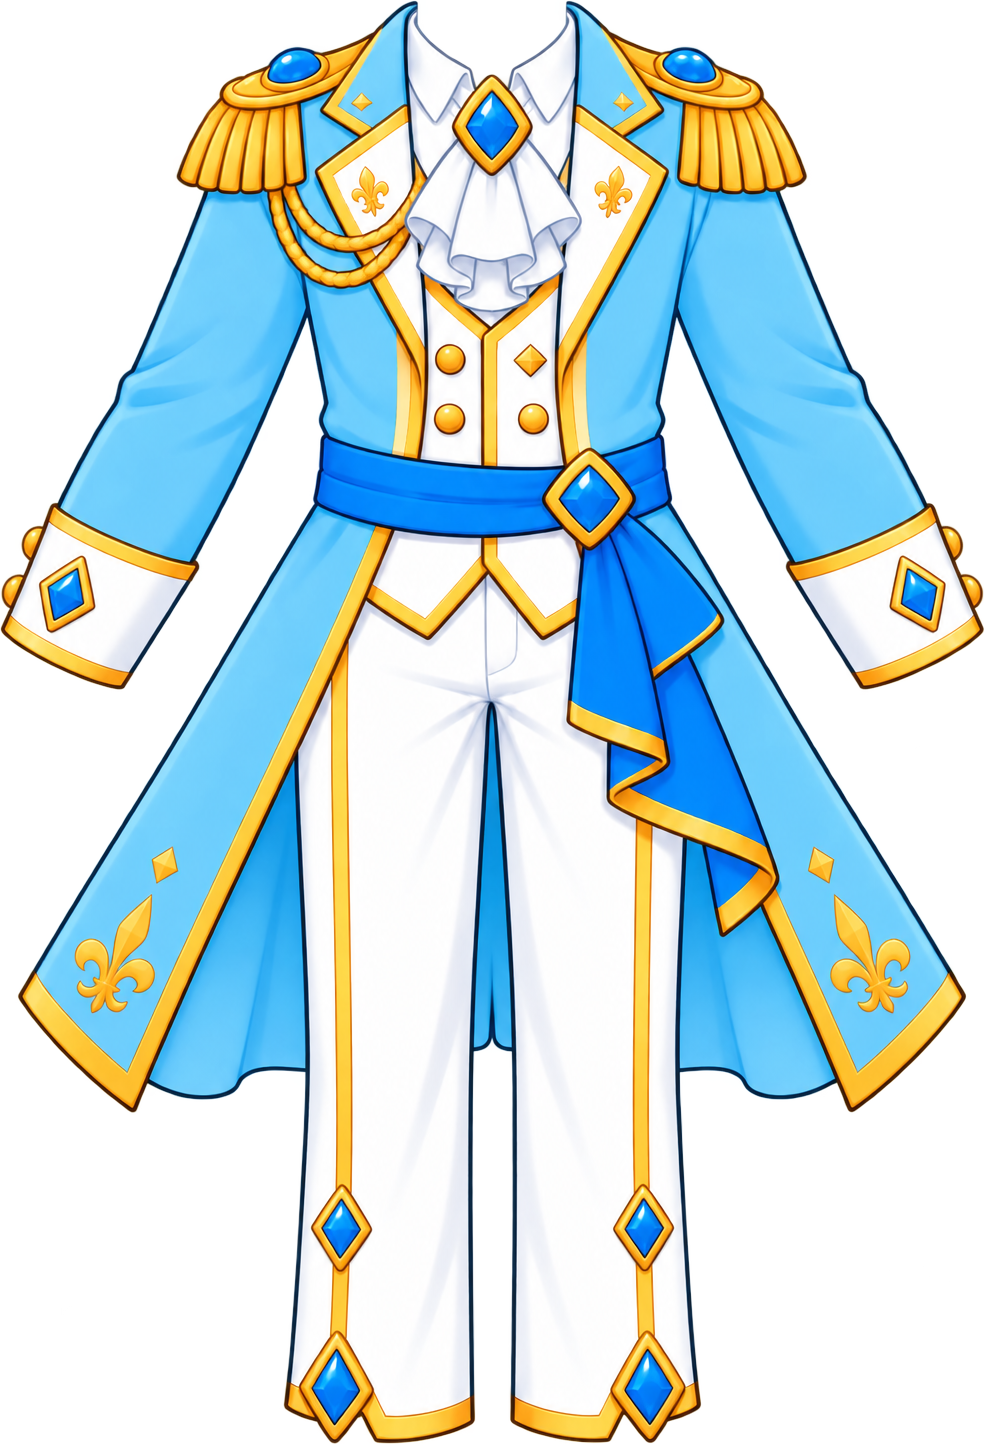
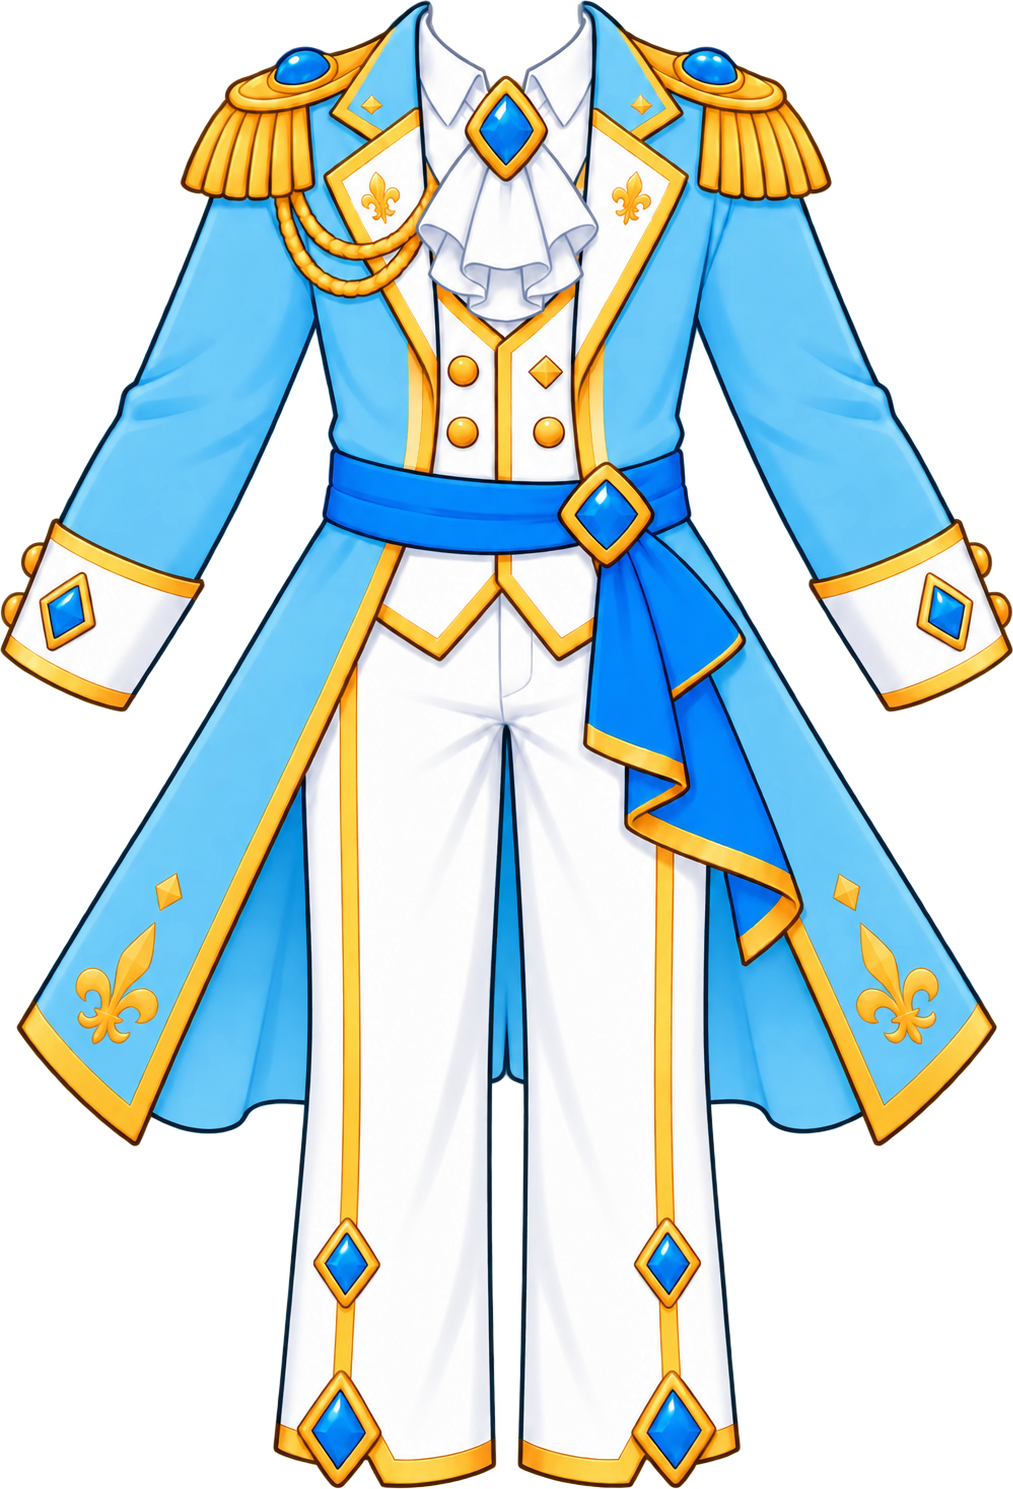
Tweaks on boy template

diff --git a/src/components/Character/Character.stories.tsx b/src/components/Character/Character.stories.tsx
@@ -212,9 +212,9 @@ export const Boy: Story = {
     characterChoice: {
       sex: "M",
       layers: [
-        { file: "boy-costume-1.png", x: 50, y: 51, size: 50, zIndex: 2 },
+        { file: "boy-costume-1.png", x: 50, y: 52, size: 53, zIndex: 2 },
         { file: "boy-face-1.png", x: 50, y: 18, size: 7, zIndex: 1 },
-        { file: "boy-feet-1.png", x: 50, y: 83, size: 22, zIndex: 1 },
+        { file: "boy-feet-1.png", x: 50, y: 82, size: 24, zIndex: 1 },
         { file: "boy-hair-1.png", x: 50, y: 12, size: 19, zIndex: 1 },
       ],
     },

diff --git a/AGENTS.md b/AGENTS.md
@@ -180,8 +180,8 @@ context and decisions, not temporary progress notes.
   hair `(50, 15, 19)`, and shoes `(50, 89, 9)`.
   The `Boy` story uses the same editor with sex `M`, size/top `100`, left `50`.
   Its layer `(x, y, size, zIndex)` values are `boy-costume-1.png`
-  `(50, 51, 50, 2)`, `boy-face-1.png` `(50, 18, 7, 1)`, `boy-feet-1.png`
-  `(50, 83, 22, 1)`, and `boy-hair-1.png` `(50, 12, 19, 1)`.
+  `(50, 52, 53, 2)`, `boy-face-1.png` `(50, 18, 7, 1)`, `boy-feet-1.png`
+  `(50, 82, 24, 1)`, and `boy-hair-1.png` `(50, 12, 19, 1)`.
 - `src/components/Timer/`: reusable timer artwork with a percentage-positioned
   countdown display that starts at 100 and stops at zero.
 - `src/components/Dialog/`: reusable dialog-frame artwork with a centered,
